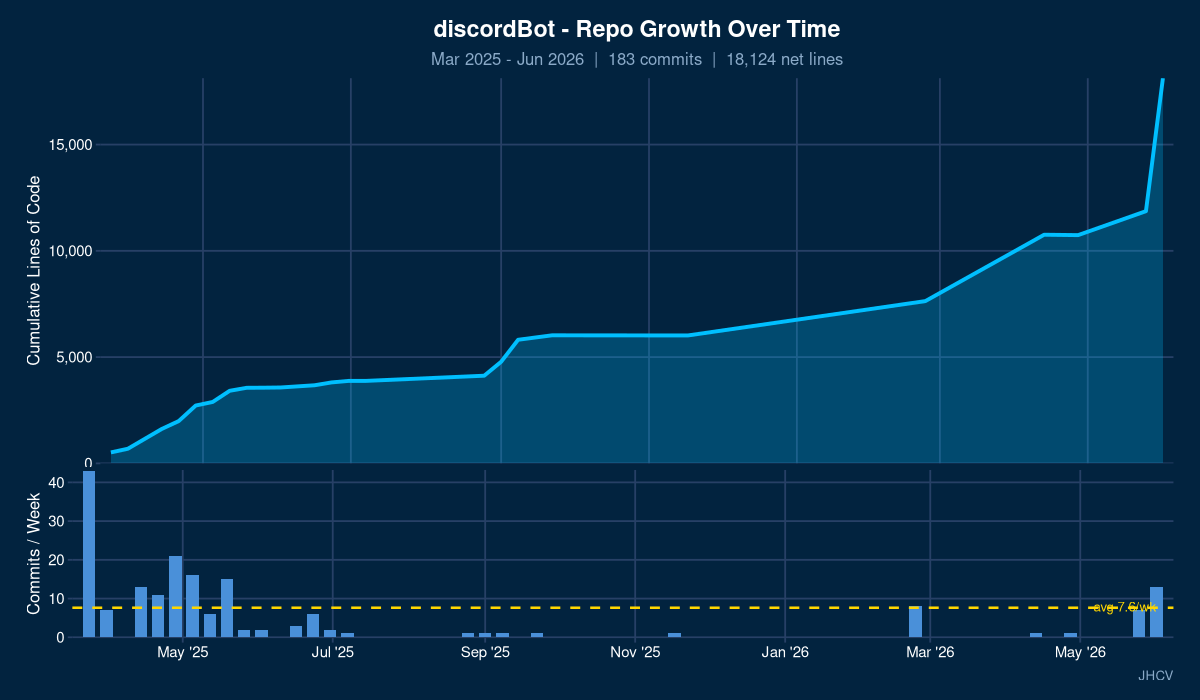
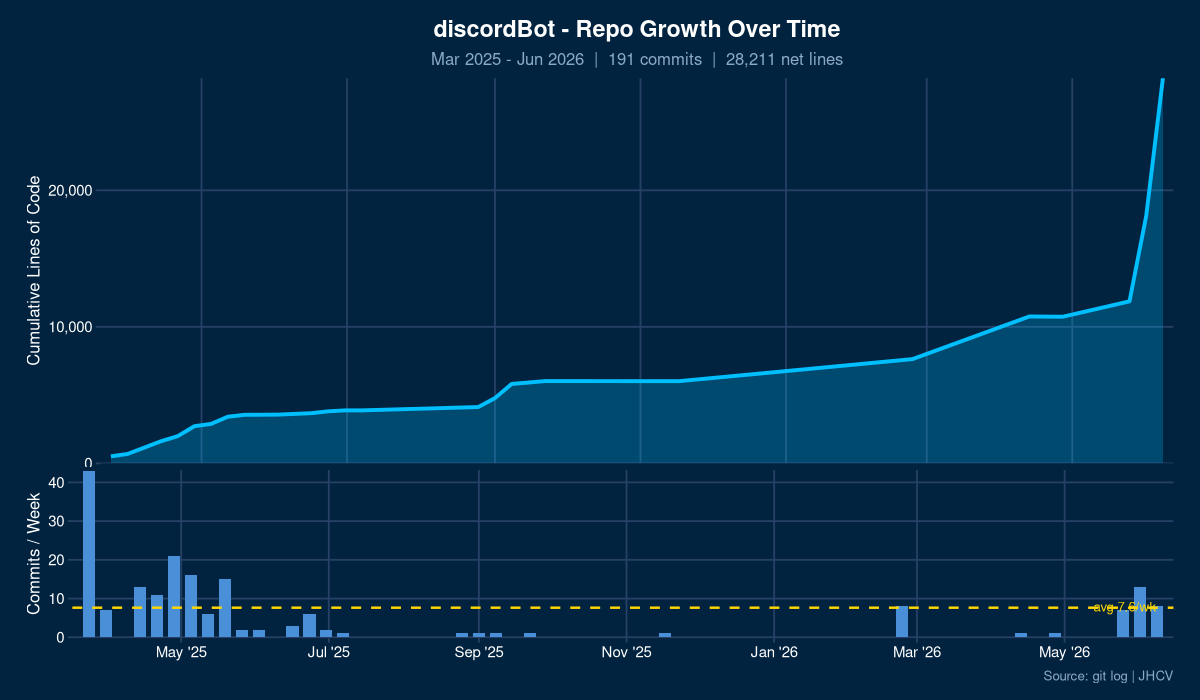
update readme

diff --git a/README.md b/README.md
@@ -4,7 +4,7 @@ There are many discord bots but this one is mine. I love it dearly.
 
 Built so I could send a message from my phone and have it run scripts, pull data, and post results back to the server - even if I'm not at the helm. Runs on a Raspberry Pi. Speaks Python and R.
 
-**183 commits · 18,000+ lines · March 2025 - present**
+**191 commits · 15,500+ lines · March 2025 - present**
 
 ---
 
@@ -121,27 +121,34 @@ Florida Panthers content - next game, scores, 2024 Stanley Cup content, rat cele
 ### `/markets`
 | command | description |
 |---|---|
-| `chart` | price + volume chart for any stock ticker |
-| `fedrate` | fed funds target rate history |
+| `chart` | price + volume chart for any stock or ETF ticker (3M/6M/1Y/5Y/10Y) |
+| `crypto` | price + volume chart for BTC, ETH, SOL, or DOGE - or BTC on-chain: hashrate, rainbow, NUPL, MVRV, dominance |
+| `forecast` | GJR-GARCH / EGARCH / SARIMA animated forecast GIF with Monte Carlo paths - stocks and crypto |
+| `regress` | multivariate OLS regression with NW-HAC robust SEs, ADL lags, VIF - 25-variable dropdowns for target and regressors |
+| `macro` | 6-panel macro dashboard - Fed funds rate, 10Y yield, TIPS, CPI, M2, DXY (FRED data, timeframe dropdown) |
+| `series` | individual FRED series chart with recession shading - DXY, M2, TIPS, CPI, Fed Funds, 10Y (timeframe dropdown) |
+| `sector` | S&P 500 sector treemap - 503 stocks sized by live market cap, colored by daily % change |
+| `corr` | 11-asset correlation matrix - SPY, BTC, ETH, gold, VIX, DXY, 10Y, TIPS, CPI, M2, Fed Funds (hierarchically clustered, timeframe dropdown) |
+| `vix` | VIX term structure curve (9D / 30D / 3M / 6M / 1Y) + VVIX vol-of-vol gauge with zone bands |
+| `commodities` | commodities dashboard - all 12 panels (metals / energy / softs) or filter by category (timeframe dropdown) |
+| `fx` | FX dashboard - EUR, GBP, JPY, CHF, CAD, AUD, CNY, MXN vs USD (ECB data, timeframe dropdown) |
+| `bonds` | bonds dashboard - TLT, IEF, SHY, HYG, LQD, EMB normalized returns + credit spreads (timeframe dropdown) |
+| `news` | latest market headlines from Alpaca news feed - optional ticker filter |
+| `fomc` | next 6 FOMC meeting dates with CME-implied Fed Funds rate at each meeting |
+| `fedrate` | Fed funds target rate history |
 | `yieldcurve` | latest US Treasury yield curve |
-| `yieldspread` | 10Y-2Y spread history (2mo or full) |
+| `yieldspread` | 10Y-2Y spread history (timeframe dropdown) |
 | `crudeoil` | WTI crude oil price chart |
-| `trades` | recent trade chart |
 | `fear` | CNN Fear & Greed Index |
 | `movers` | top market gainers and losers |
 | `earnings` | upcoming earnings (7 days) or earnings history for a ticker |
-| `options` | options flow for a ticker |
+| `options` | options flow snapshot for a ticker |
 | `short` | most shorted stocks |
-| `crypto` | price + volume chart for BTC, ETH, SOL, or DOGE - or BTC hashrate |
-| `forecast` | GJR-GARCH / EGARCH / SARIMA animated forecast GIF with Monte Carlo paths |
-| `regress` | multivariate OLS regression with dropdown variable selection and NW-HAC robust SEs |
+| `trades` | recent trade chart |
 
 ![stock chart](outputs/markets/stockchart.png)
-![trade chart](outputs/markets/tradechart.png)
 ![yield curve](outputs/markets/yield_curve.png)
 ![yield spread](outputs/markets/yield_spread.png)
-![crude oil](outputs/markets/crudewti.png)
-![fed rate](outputs/markets/dfedtaru.png)
 ![crypto chart](outputs/markets/cryptochart.png)
 ![forecast](outputs/markets/forecast_SPY_1d_1mo_mcpaths.gif)
 